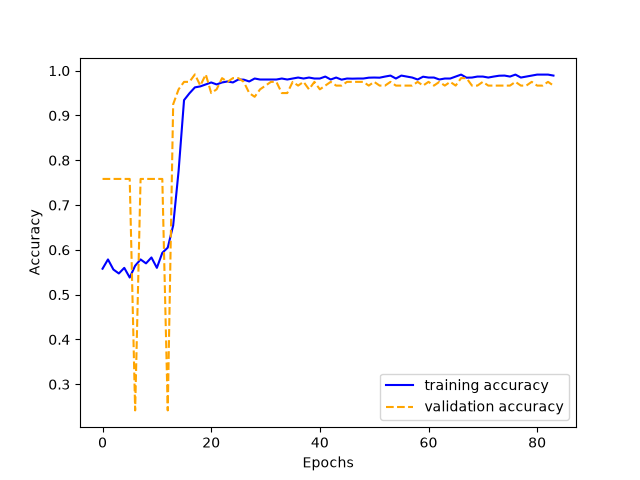
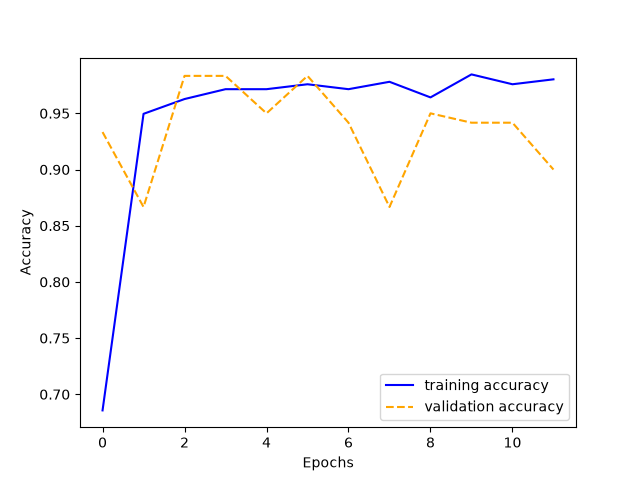
Modified split.py to only split the dataset in two. Normalization logic is now in a class. Train and Predict can take raw dataset as input. Modified predict.py accordingly

diff --git a/predict.py b/predict.py
@@ -3,6 +3,7 @@ import numpy as np
 import pandas
 from src.NeuralNetwork import NeuralNetwork
 from src.Math import binary_cross_entropy
+from src.Dataset import Dataset
 
 
 def main() -> None:
@@ -26,83 +27,52 @@ def main() -> None:
               file=sys.stderr)
         sys.exit(1)
 
-    try:
-        raw_df = pandas.read_csv(data_path)
-        if raw_df.empty:
-            print(f"Error: Dataset '{data_path}' is empty.", file=sys.stderr)
-            sys.exit(1)
-        data = raw_df.to_numpy()
-    except FileNotFoundError:
-        print(f"Error: Dataset not found at '{data_path}'. "
-              "Please run split.py first.", file=sys.stderr)
-        sys.exit(1)
-    except pandas.errors.EmptyDataError:
-        print(f"Error: Dataset '{data_path}' is empty.", file=sys.stderr)
-        sys.exit(1)
-    except Exception as e:
-        print(f"Error: Failed to read dataset from '{data_path}': {e}",
-              file=sys.stderr)
-        sys.exit(1)
+    test_dataset = Dataset(data_path)
 
-    n = data.shape[0]
-    if n == 0 or data.shape[1] < 2:
-        print(f"Error: '{data_path}' does not contain enough data or columns.",
-              file=sys.stderr)
-        sys.exit(1)
+    if model.scaler is not None:
+        test_dataset.normalize(model.scaler)
 
-    labels = data[:, 0]
-    input = np.ascontiguousarray(data[:, 1:])
+    labels = test_dataset.labels
 
-    expected_features = model.layers[0].weights.shape[0]
-    if input.shape[1] != expected_features:
-        print(f"Error: Feature mismatch."
-              f"Model expects {expected_features} features, "
-              f"got {input.shape[1]} from '{data_path}'.", file=sys.stderr)
-        sys.exit(1)
-
-    raw_prediction = model.forward(input)
+    raw_prediction = model.forward(test_dataset.parameters)
     loss = binary_cross_entropy(labels, raw_prediction)
 
     print(f"Binary cross-entropy loss: {loss}\n")
 
     prediction = np.argmax(raw_prediction, axis=1)
 
-    true_positive = 0
-    true_negative = 0
-    false_positive = 0
-    false_negative = 0
-    for y_true, y_pred in zip(labels, prediction):
-        if y_true == 1 and y_pred == 1:
-            true_positive += 1
-        elif y_true == 0 and y_pred == 1:
-            false_positive += 1
-        elif y_true == 1 and y_pred == 0:
-            false_negative += 1
-        elif y_true == 0 and y_pred == 0:
-            true_negative += 1
+    true_positive = np.sum((labels == 1) & (prediction == 1))
+    true_negative = np.sum((labels == 0) & (prediction == 0))
+    false_positive = np.sum((labels == 0) & (prediction == 1))
+    false_negative = np.sum((labels == 1) & (prediction == 0))
 
-    row_names = ['Actual Positives', 'Actual Negatives']
-    col_names = ['Predicted Positives', 'Predicted Negatives']
-    error_matrix = np.array([[true_positive, false_negative],
-                             [false_positive, true_negative]])
-    error_df = pandas.DataFrame(error_matrix,
-                                index=row_names, columns=col_names)
+    error_matrix = pandas.DataFrame(
+        [[true_positive, false_negative],
+         [false_positive, true_negative]],
+        index=['Actual Positives', 'Actual Negatives'],
+        columns=['Predicted Positives', 'Predicted Negatives']
+    )
 
-    print(error_df)
+    print(error_matrix)
     print()
 
-    accuracy = (true_positive + true_negative) / n if n > 0 else 0.0
-    precision = (true_positive / (true_positive + false_positive)
-                 if (true_positive + false_positive) > 0 else 0.0)
-    recall = (true_positive / (true_positive + false_negative)
-              if (true_positive + false_negative) > 0 else 0.0)
-    f1_score = (2 * (precision * recall) / (precision + recall)
-                if (precision + recall) > 0 else 0.0)
+    n = len(test_dataset)
+    eps = 1e-15
 
-    print(f"Accuracy: {accuracy * 100:.2f}%\n"
-          f"Precision: {precision * 100:.2f}%\n"
-          f"Recall: {recall * 100:.2f}%\n"
-          f"F1 Score: {f1_score * 100:.2f}%")
+    accuracy = (true_positive + true_negative) / n
+    precision = true_positive / (true_positive + false_positive + eps)
+    recall = true_positive / (true_positive + false_negative + eps)
+    f1_score = 2 * (precision * recall) / (precision + recall + eps)
+
+    metrics = {
+        "Accuracy": accuracy,
+        "Precision": precision,
+        "Recall": recall,
+        "F1 Score": f1_score,
+    }
+
+    for name, score in metrics.items():
+        print(f"{name:<10}: {score * 100:.2f}%")
 
 
 if __name__ == "__main__":

diff --git a/src/NeuralNetwork.py b/src/NeuralNetwork.py
@@ -2,6 +2,7 @@ import numpy as np
 from src.DenseLayer import DenseLayer
 from src.Optimizer import OptimizerFactory
 from src.type import Tensor
+from src.StandardScaler import StandardScaler
 
 
 class NeuralNetwork:
@@ -10,6 +11,7 @@ class NeuralNetwork:
                  activation: str, optimizer: str, **optimizer_kwargs: float):
         self.layers: list[DenseLayer] = []
         self.optimizer_name: str = optimizer
+        self.scaler: StandardScaler | None = None
 
         if not layers_sizes:
             return
@@ -47,13 +49,17 @@ class NeuralNetwork:
         for layer in self.layers:
             layer.update()
 
-    def export(self, path: str) -> None:
+    def export(self, path: str, scaler: StandardScaler | None = None) -> None:
         nn_dict: dict[str, Tensor | str] = {}
 
         for i, layer in enumerate(self.layers):
             nn_dict[f"W_{i}"] = layer.weights
             nn_dict[f"b_{i}"] = layer.biases
             nn_dict[f"A_{i}"] = layer.activation
+
+        if scaler is not None:
+            nn_dict["scaler_mean"] = scaler.mean
+            nn_dict["scaler_std"] = scaler.std
 
         try:
             np.savez(path, allow_pickle=True, **nn_dict)
@@ -71,14 +77,26 @@ class NeuralNetwork:
         loaded_layers = np.load(filename)
         layers: list[DenseLayer] = []
 
-        for i in range(len(loaded_layers) // 3):
+        num_layers = sum(1 for k in loaded_layers.files if k.startswith("W_"))
+
+        for i in range(num_layers):
             weights = loaded_layers[f"W_{i}"]
             biases = loaded_layers[f"b_{i}"]
             activation = loaded_layers[f"A_{i}"]
             layer = DenseLayer.from_computed(weights, biases, activation)
             layers.append(layer)
+
         instance = cls(0, [], 0, "", "")
         instance.layers = layers
+
+        if "scaler_mean" in loaded_layers and "scaler_std" in loaded_layers:
+            scaler = StandardScaler()
+            scaler.mean = loaded_layers["scaler_mean"]
+            scaler.std = loaded_layers["scaler_std"]
+            instance.scaler = scaler
+        else:
+            instance.scaler = None
+
         return instance
 
     def get_weights_vector(self) -> Tensor:

diff --git a/split.py b/split.py
@@ -1,6 +1,6 @@
-import pandas
 import sys
 from pathlib import Path
+from src.ft_load import ft_load
 
 
 def main() -> None:
@@ -10,53 +10,13 @@ def main() -> None:
 
     path = sys.argv[1]
 
-    try:
-        df = pandas.read_csv(path, header=None)
-        if df.shape[1] < 2:
-            print(f"Error: '{path}' does not contain enough columns.",
-                  file=sys.stderr)
-            sys.exit(1)
-        df = df.iloc[:, 1:]
-        print(f"Data from '{path}' successfully loaded.")
-    except FileNotFoundError:
-        print(f"Error: File '{path}' not found.", file=sys.stderr)
-        sys.exit(1)
-    except PermissionError:
-        print(f"Error: Permission denied for '{path}'.", file=sys.stderr)
-        sys.exit(1)
-    except pandas.errors.EmptyDataError:
-        print(f"Error: File '{path}' is empty.", file=sys.stderr)
-        sys.exit(1)
-    except pandas.errors.ParserError:
-        print(f"Error: Unable to parse '{path}', file may be corrupted.",
-              file=sys.stderr)
-        sys.exit(1)
-    except Exception as e:
-        print(f"Unexpected error while reading '{path}': {e}", file=sys.stderr)
-        sys.exit(1)
-
-    df[df.columns[0]] = df[df.columns[0]].replace({'M': 1, 'B': 0})
+    df = ft_load(path)
 
     split_ratio = 0.8
     split_idx = int(len(df) * split_ratio)
 
     df_train = df.iloc[:split_idx, :].copy()
     df_test = df.iloc[split_idx:, :].copy()
-
-    first_col = df_train.iloc[:, 0]
-    first_col_test = df_test.iloc[:, 0]
-
-    df_train = df_train.drop(columns=df_train.columns[0])
-    df_test = df_test.drop(columns=df_test.columns[0])
-
-    mean_train = df_train.mean()
-    std_train = df_train.std()
-
-    df_train = (df_train - mean_train) / std_train
-    df_test = (df_test - mean_train) / std_train
-
-    df_train.insert(0, first_col.name, first_col)
-    df_test.insert(0, first_col_test.name, first_col_test)
 
     try:
         Path("data").mkdir(parents=True, exist_ok=True)

diff --git a/train.py b/train.py
@@ -1,4 +1,3 @@
-import numpy as np
 from src.parser import init_parser
 from src.NeuralNetwork import NeuralNetwork
 from src.EarlyStopping import EarlyStopping
@@ -6,16 +5,21 @@ from src.Dataset import Dataset
 from src.DataLoader import DataLoader
 from src.Trainer import Trainer
 from src.LossLandscape import LossLandscape
+from src.StandardScaler import StandardScaler
 import pandas
 
 
 def main() -> None:
-    # np.random.seed(42)
-
     args = init_parser()
 
     train_data = Dataset('data/training_data.csv')
     val_data = Dataset('data/testing_data.csv')
+
+    scaler = StandardScaler()
+    scaler.fit(train_data.parameters)
+
+    train_data.normalize(scaler)
+    val_data.normalize(scaler)
 
     train_loader = DataLoader(train_data,
                               batch_size=args.batch_size, shuffle=True)
@@ -44,7 +48,7 @@ def main() -> None:
 
     history.plot_loss()
     history.plot_acc()
-    model.export('data/model_weights.npz')
+    model.export('data/model_weights.npz', scaler=scaler)
     pandas.DataFrame(history.history).to_csv('history.csv')
 
 

diff --git a/src/Dataset.py b/src/Dataset.py
@@ -1,14 +1,18 @@
 from src.ft_load import ft_load
 from src.type import Tensor
+from src.StandardScaler import StandardScaler
 from typing import Any
+from numpy import float64
 
 
 class Dataset:
     def __init__(self, path: str):
         data = ft_load(path)
 
-        self.labels = data.iloc[:, 0].to_numpy()
-        self.parameters = data.iloc[:, 1:].to_numpy()
+        raw_labels = data.iloc[:, 1].replace({'M': 1, 'B': 0})
+
+        self.labels = raw_labels.to_numpy(dtype=float64)
+        self.parameters = data.iloc[:, 2:].to_numpy(dtype=float64)
 
     def __len__(self) -> int:
         return len(self.labels)
@@ -19,3 +23,6 @@ class Dataset:
     @property
     def columns(self) -> int:
         return self.parameters.shape[1]
+
+    def normalize(self, scaler: StandardScaler) -> None:
+        self.parameters = scaler.transform(self.parameters)

diff --git a/src/StandardScaler.py b/src/StandardScaler.py
@@ -1,0 +1,16 @@
+from src.type import Tensor
+import numpy as np
+
+
+class StandardScaler:
+    def fit(self, x: Tensor) -> None:
+        self.mean = np.mean(x, axis=0)
+        self.std = np.std(x, axis=0)
+        self.std[self.std == 0] = 1.0
+
+    def transform(self, x: Tensor) -> Tensor:
+        return (x - self.mean) / self.std
+
+    def fit_transform(self, x: Tensor) -> Tensor:
+        self.fit(x)
+        return self.transform(x)
